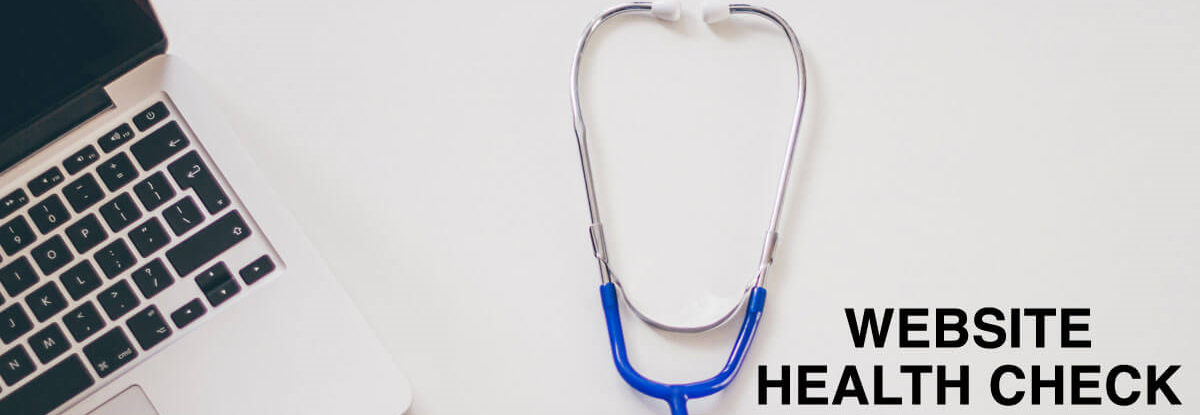
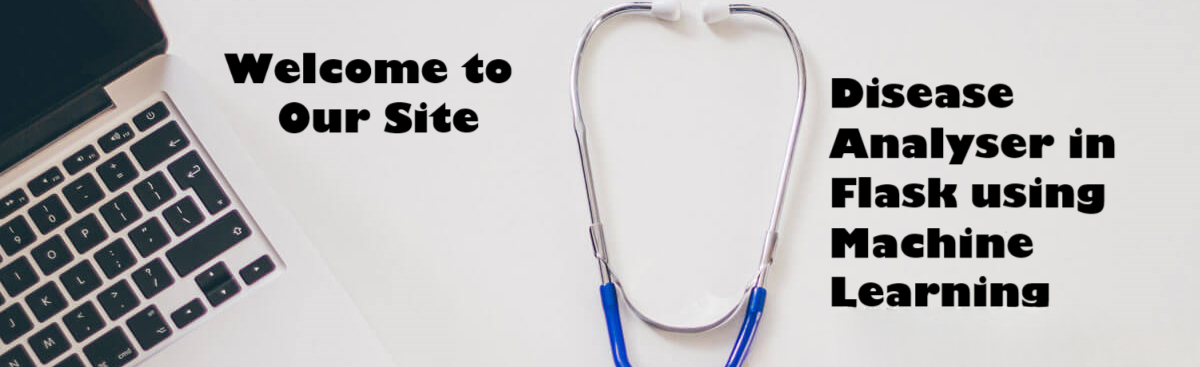
fix some bugs and change the name

diff --git a/static/style.css b/static/style.css
@@ -10,9 +10,15 @@ body {
 #healthlogo{
   margin: 0;
   padding-top: 5px;
-  height: 57px;!important
+  height: 47px;!important
   width: 96px;!important
   
+}
+#darkmode{
+  top: 38px;
+}
+#banner{
+  margin-top: 18px;
 }
 #Fetal_Health{
   margin-top: 56px;
@@ -27,6 +33,7 @@ body {
 {
   background-color: #a29e9e5c;
 }
+
 .mynav , .mynav a 
 {
   color: black;

diff --git a/templates/layout.html b/templates/layout.html
@@ -22,7 +22,7 @@
 </head>
 
 <body>
-  <input type="checkbox" id="toggle" name="checkbox" class="switch" onclick="myfun()">
+  <input id="darkmode" type="checkbox" id="toggle" name="checkbox" class="switch" onclick="myfun()">
 
   <!-- Navigation -->
   <nav class="navbar navbar-expand-lg shadow fixed-top mynav">

diff --git a/templates/index.html b/templates/index.html
@@ -29,7 +29,7 @@ overflow:hidden;
 {% block body %}
 
 <div class="container-fluid px-0 py-0">
-  <img class="card-img-top" src="/static/bg_healthcheck.png" alt="">
+  <img id="banner"class="card-img-top" src="/static/bg_healthcheck.png" alt="">
 </div>
 
 <br>
